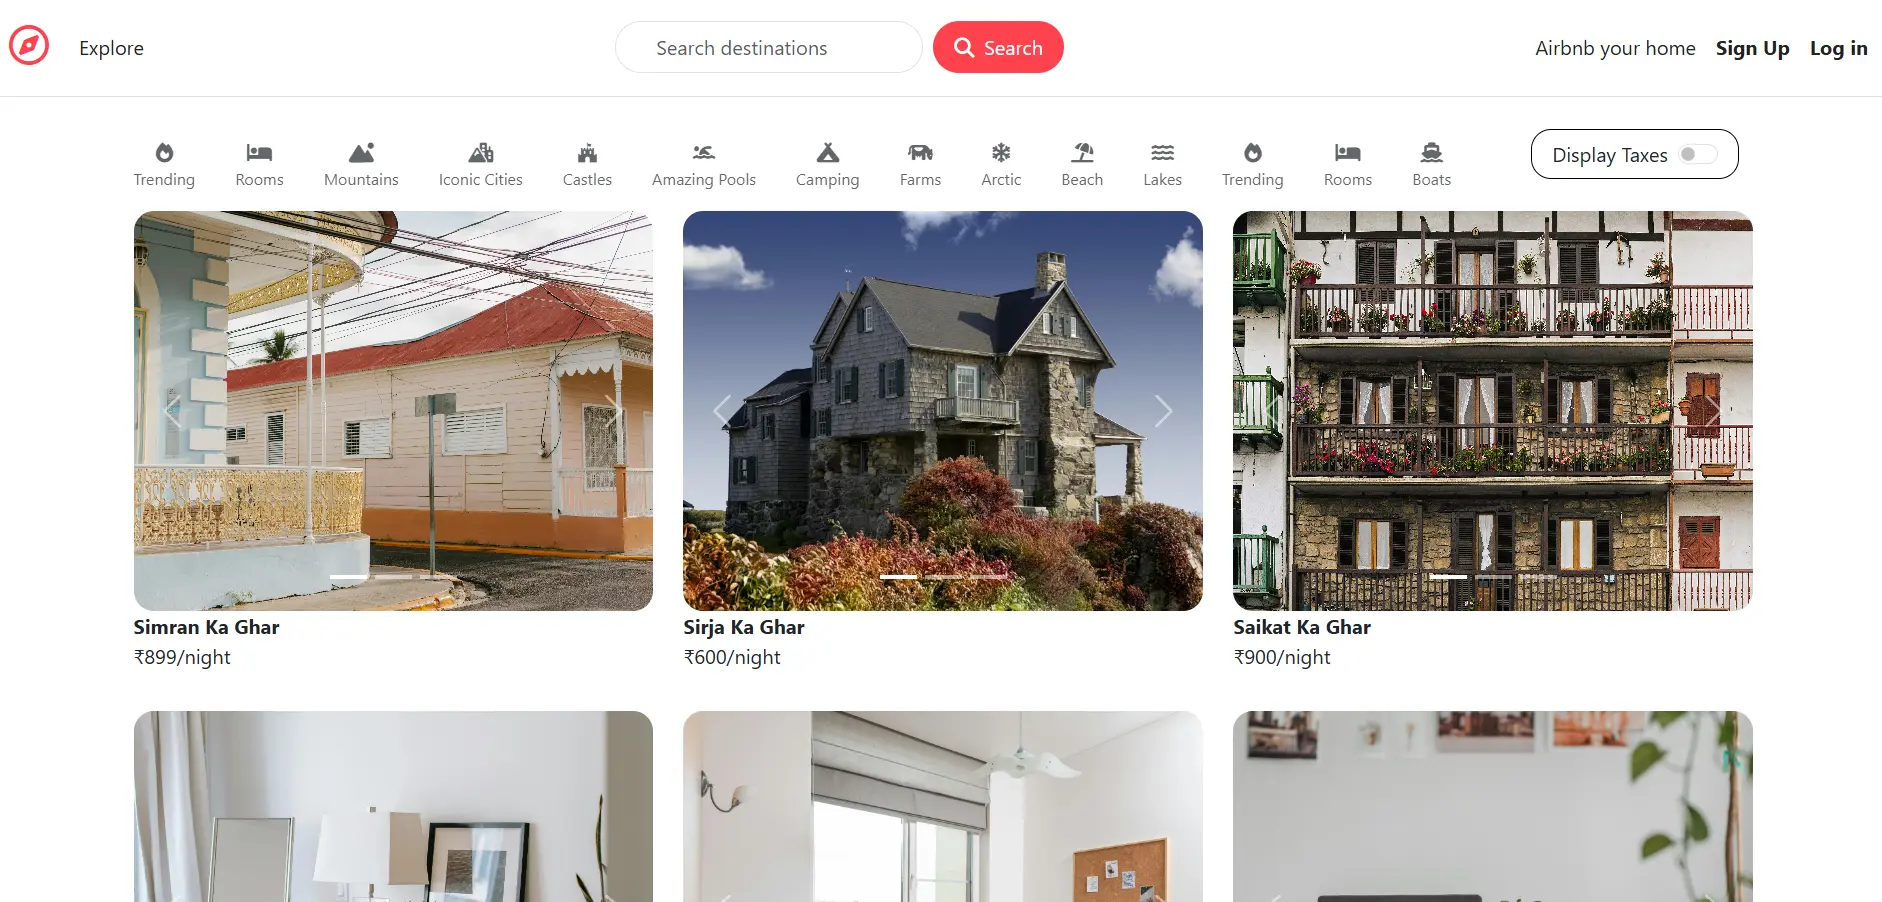
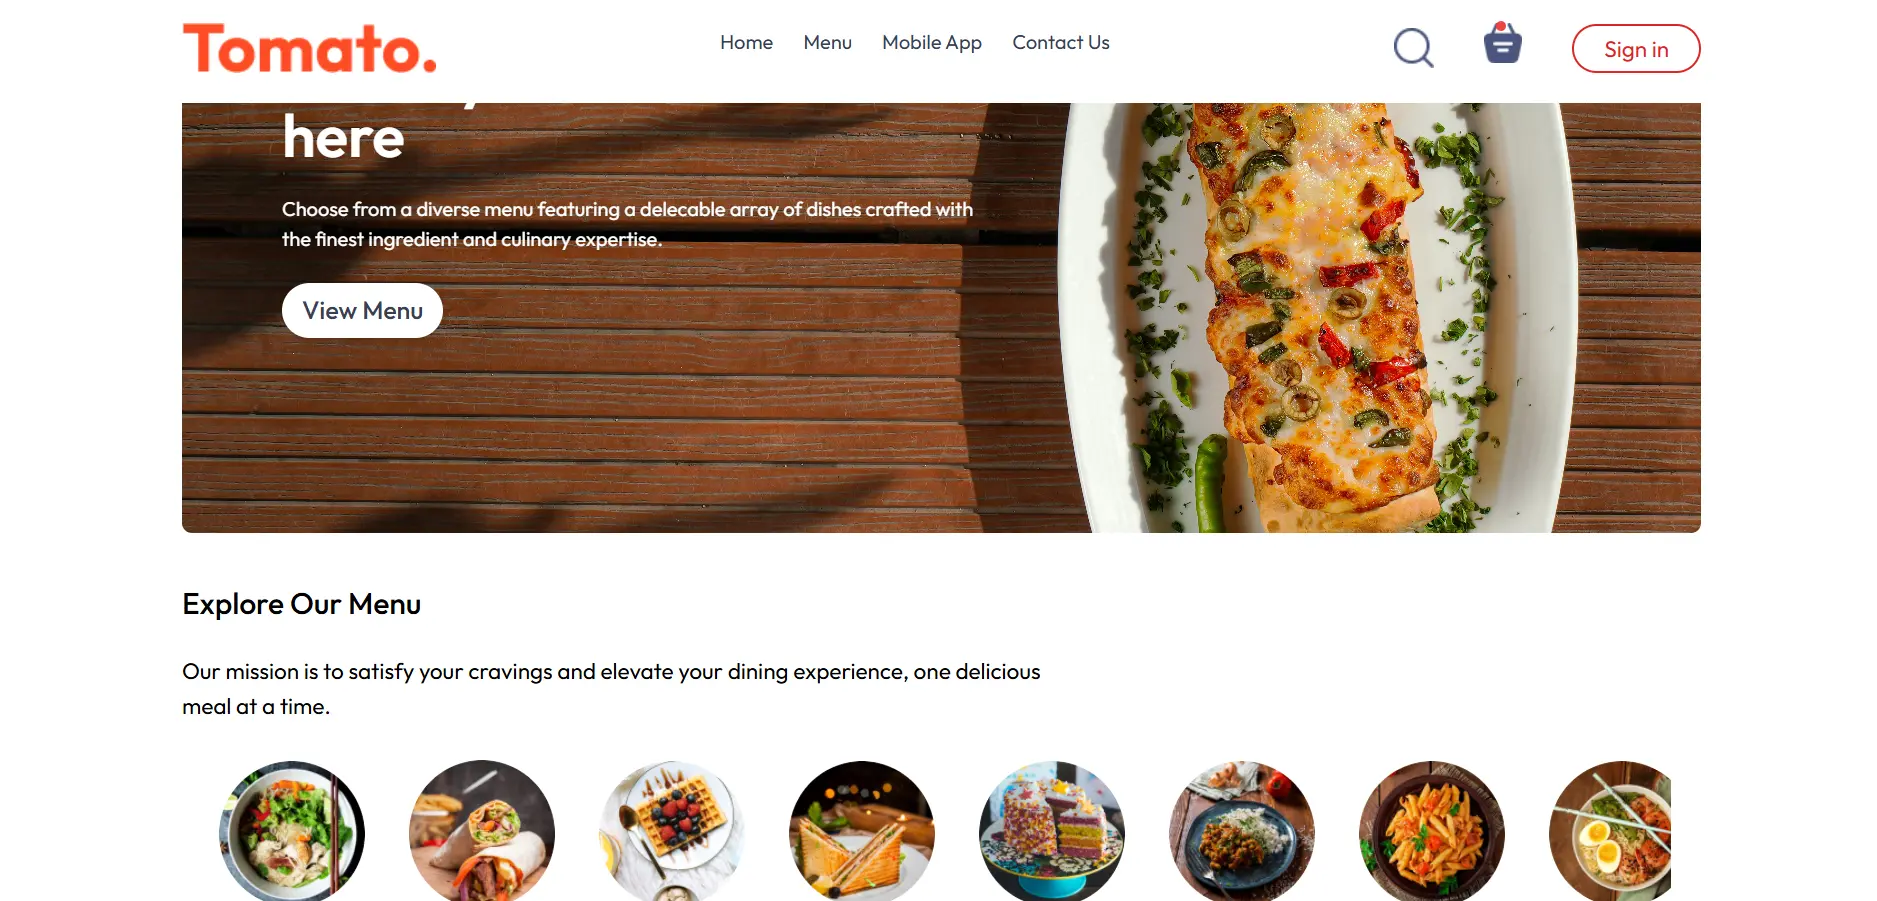
improved some ui

diff --git a/src/assets/mywork_data.js b/src/assets/mywork_data.js
@@ -19,24 +19,24 @@ const mywork_data = [
         technologies: ["MongoDB", "ExpressJS", "ReactJS", "NodeJS", "TailwindCSS"],
         img: project3_img,
         info: "A modern gym management platform with online admission, payments, member verification, and separate admin/user dashboards.",
-        sourceCode: "https://github.com/Saikat-github/Gym-2-Frontend-MERN",
+        sourceCode: "https://github.com/Saikat-github/minimalistgyms",
         liveLink: "https://www.minimalistgyms.com"
     },
     {
         no: 2,
-        name: "Tomato",
+        name: "Burdwan Turf",
         technologies: ["MongoDB", "ExpressJS", "ReactJS", "NodeJS", "TailwindCSS"],
         img: project2_img,
-        info: "A food ordering app with online payments and real-time order tracking, inspired by Zomato’s workflow.",
-        sourceCode: "https://github.com/Saikat-github/FoodDelivery-All-Panels",
-        liveLink: "https://food-delivery-frontend-sandy.vercel.app"
+        info: "A production-grade MERN sport turf booking platform built for a real paying client, featuring online reservations, payments, and user management.",
+        sourceCode: "https://github.com/Saikat-github/burdwan-turf",
+        liveLink: "https://burdwan-turf.vercel.app"
     },
     {
         no: 3,
         name: "BG Removal",
         technologies: ["MongoDB", "ExpressJS", "ReactJS", "NodeJS", "TailwindCSS"],
         img: project4_img,
-        info: "A simple image background remover with integrated payment system for premium downloads.",
+        info: "A simple AI powered background remover with integrated payment system for premium downloads.",
         sourceCode: "https://github.com/Saikat-github/bg-removal",
         liveLink: "https://bg-removal-frontend-one.vercel.app"
     },
@@ -46,17 +46,17 @@ const mywork_data = [
         technologies: ["ReactJS", "Appwrite", "TailwindCSS"],
         img: project6_img,
         info: "A fitness coaching website where trainers manage clients, and users access personalized training details.",
-        sourceCode: "https://github.com/Saikat-github/fitnessWebsite",
-        liveLink: "https://fitness-website-snowy.vercel.app"
+        sourceCode: "https://github.com/Saikat-github/zerodiet",
+        liveLink: "https://zerodiet.vercel.app"
     },
     {
         no: 5,
-        name: "Wanderlust",
-        technologies: ["MongoDB", "ExpressJS", "EJS", "NodeJS", "Bootstrap"],
+        name: "Tomato",
+        technologies: ["MongoDB", "ExpressJS", "ReactJS", "NodeJS", "TailwindCSS"],
         img: project5_img,
-        info: "A room rental platform where property owners list accommodations and users can book them online.",
-        sourceCode: "https://github.com/Saikat-github/MajorProject-2",
-        liveLink: "https://wanderlust-project-tvog.onrender.com/listings"
+        info: "A food ordering app with online payments and real-time order tracking, inspired by Zomato’s workflow.",
+        sourceCode: "https://github.com/Saikat-github/food-delivery-all-panels",
+        liveLink: "https://food-delivery-frontend-sandy.vercel.app"
     },
     {
         no: 6,

diff --git a/src/components/navbar/Navbar.jsx b/src/components/navbar/Navbar.jsx
@@ -19,7 +19,7 @@ const Navbar = () => {
   }, []);
 
   return (
-    <div className='flex justify-between md:px-16 lg:px-28 px-6 py-4 md:items-center  sticky top-0 z-20 bg-black/80 border-b border-b-white/20 backdrop-blur-md'>
+    <div className='flex justify-between md:px-16 lg:px-28 px-6 py-4 md:items-center  sticky top-0 z-20 border-b border-b-white/20 backdrop-blur-xl max-md:bg-black'>
       <p to={"/"} className='font-semibold text-lg'>Saikat S.</p>
 
       {/* Menu open icon */}
@@ -32,11 +32,11 @@ const Navbar = () => {
       {/* Navigation Menu */}
       <ul
         className={`nav-menu flex md:flex-row items-center gap-10 absolute right-0 top-14 text-sm
-          ${showSidebar ? ' w-full py-4 h-screen bg-black/90 backdrop-blur px-12 space-y-6 flex-col' : 'hidden md:flex'} md:static md:w-auto md:py-0 md:h-auto md:bg-transparent md:px-0 md:space-y-0`}
+          ${showSidebar ? 'w-full py-4 h-screen px-12 flex-col items-center bg-black' : 'hidden md:flex'} md:static md:w-auto md:py-0 md:h-auto md:bg-transparent md:px-0 md:space-y-0`}
       >
         {/* Resume download */}
-        <a href="/saikatsaha-resume.pdf" download className='md:hidden inline'>
-          <button className="bg-blue-800/30 text-blue-600 py-2 px-4   hover:opacity-90 rounded-full cursor-pointer text-sm transition duration-200">
+        <a href="/Saikat_Saha_Resume.pdf" download className='md:hidden inline'>
+          <button className="bg-blue-800/30 text-blue-600 py-2 px-4 hover:opacity-90 rounded-full cursor-pointer text-sm transition duration-200">
             Resume
           </button>
         </a>
@@ -57,7 +57,7 @@ const Navbar = () => {
 
 
       {/* Resume download */}
-      <a href="/saikatsaha-resume.pdf" download className='md:inline hidden'>
+      <a href="/Saikat_Saha_Resume.pdf" download className='md:inline hidden'>
         <button className="bg-blue-800/30 text-blue-600 py-2 px-4   hover:opacity-90 rounded-full cursor-pointer text-sm transition duration-200">
           Resume
         </button>

diff --git a/src/components/footer/Footer.jsx b/src/components/footer/Footer.jsx
@@ -1,8 +1,6 @@
 import React from 'react'
 import footer_logo from '../../assets/logo.png'
-import instagram from '../../assets/instagram-white.svg'
-import twitter from '../../assets/twitter-white.svg'
-import linkedin from '../../assets/linkedin.svg'
+
 
 
 const Footer = () => {

diff --git a/src/components/mywork/MyWork2.jsx b/src/components/mywork/MyWork2.jsx
@@ -1,6 +1,5 @@
 import React, { useState } from 'react'
 import mywork_data from '../../assets/mywork_data';
-import arrow_icon from '../../assets/arrow_icon.svg';
 import { useMemo } from 'react';
 import { ExternalLink } from 'lucide-react';
 
@@ -56,7 +55,7 @@ const MyWork2 = () => {
                 className="flex gap-1 px-8 py-2 border border-white/20 shadow-xl shadow-white/10 rounded-full my-20 text-xs transition-all duration-300"
             >
                 Want to see more of my works? Please visit my <a
-                    href="https://github.com/Saikat-github/All-Practice-Projects"
+                    href="https://github.com/Saikat-github"
                     target="_blank"
                     rel="noreferrer"
                     className='text-blue-600'

diff --git a/src/components/contact/Contact.jsx b/src/components/contact/Contact.jsx
@@ -56,7 +56,7 @@ const Contact = () => {
                     <h1 className='text-5xl font-medium text-gray-200'>Let's talk </h1>
                     <div className="contact-details flex flex-col gap-7 text-xs">
                         <div className="contact-detail  flex items-center gap-5">
-                            <img src={mail_icon} alt="" /> <p>[email redacted]</p>
+                            <img src={mail_icon} alt="" /> <p>[email redacted]</p>
                         </div>
                         <div className="contact-detail  flex items-center gap-5">
                             <img src={call_icon} alt="" />